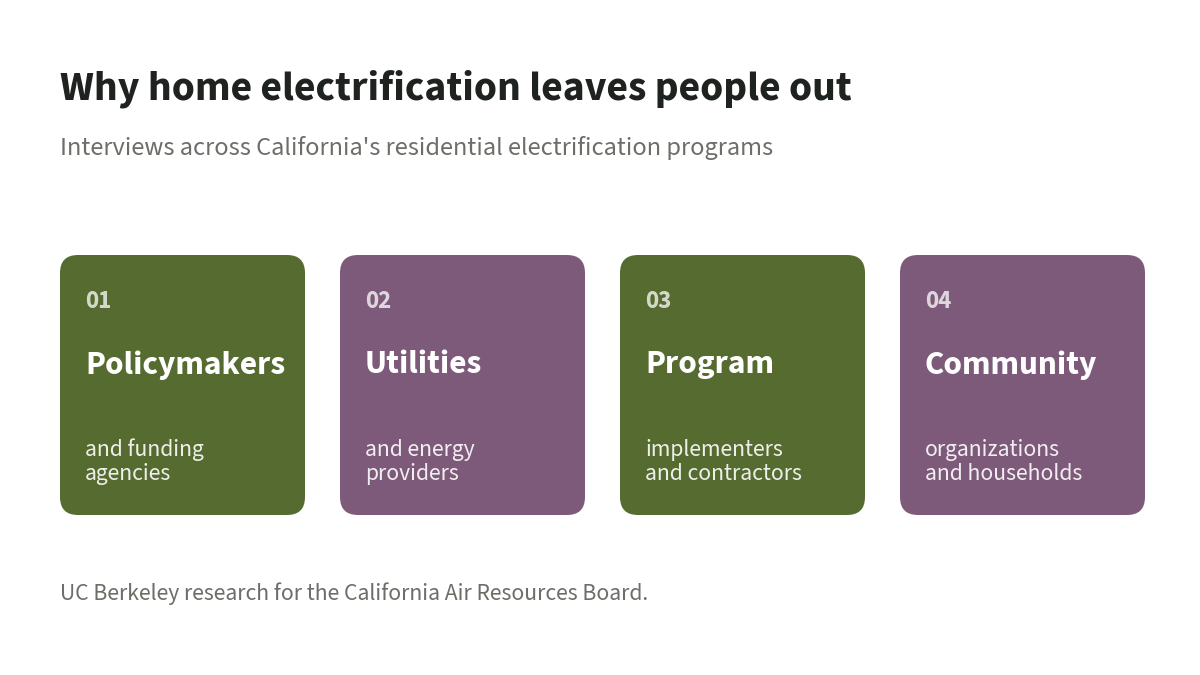
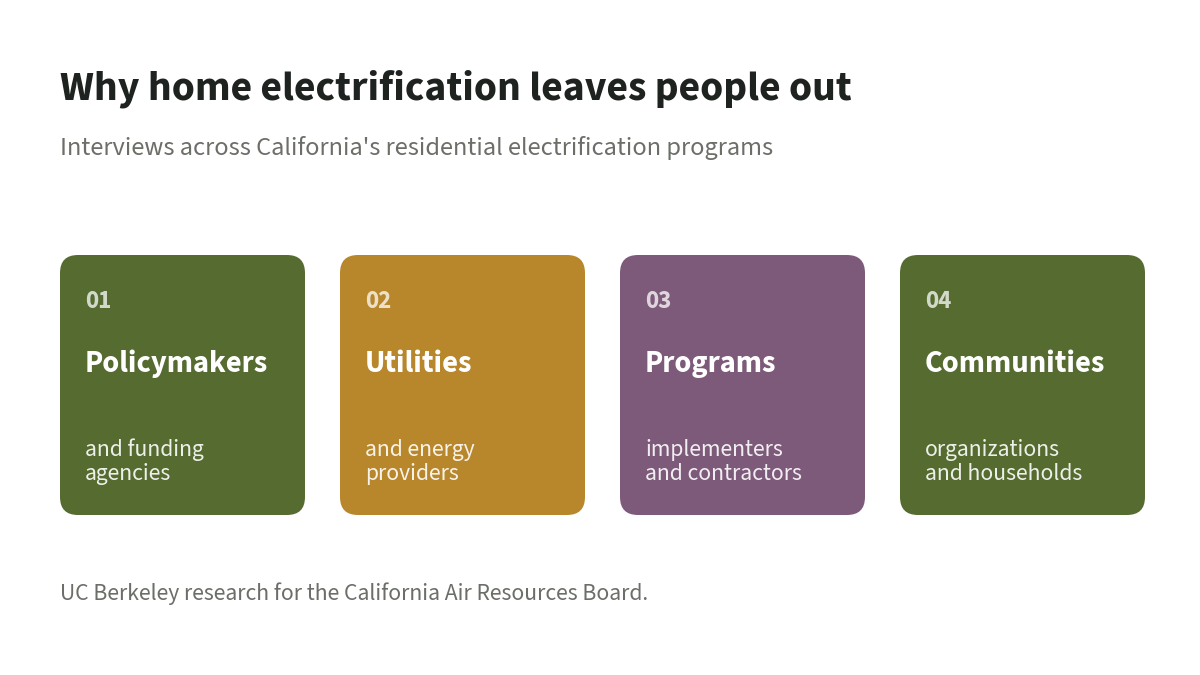
Add warm ochre accent and off-white background
Claude-Session: https://claude.ai/code/session_01WChvCnKWcNiMbhN5gWHHJU

Changed region(s): [[0.2775, 0.3733, 0.9558, 0.7778], [0.0617, 0.4978, 0.2467, 0.56]]

diff --git a/_sass/_themes.scss b/_sass/_themes.scss
@@ -1,6 +1,7 @@
 /*******************************************************************************
  * Local override of al_folio_core 1.0.15 _sass/_themes.scss
- * Changes: site palette "Olive & Mauve"
+ * Changes: site palette "Olive & Mauve" with a warm ochre accent (#b8862b)
+ *   and a warm off-white page background (#fbfaf6) in light mode
  *   olive #556b2f / light olive #a3b18a, mauve #7d5a7a / light mauve #d8bfd8
  * Everything else is unchanged from the gem. When al_folio_core is updated,
  * compare this file with the new upstream version.
@@ -10,8 +11,9 @@
 
 :root {
   color-scheme: light;
-  --global-bg-color: #{v.$white-color};
+  --global-bg-color: #fbfaf6;
   --global-code-bg-color: rgba(85, 107, 47, 0.06);
+  --site-accent-color: #b8862b;
   --global-text-color: #{v.$black-color};
   --global-text-color-light: #{v.$grey-color};
   --global-theme-color: #556b2f;
@@ -85,6 +87,7 @@ html[data-theme="dark"] {
   --global-text-color: #{v.$grey-color-light};
   --global-text-color-light: #{v.$grey-color};
   --global-theme-color: #a3b18a;
+  --site-accent-color: #d9ab52;
   --global-hover-color: #d8bfd8;
   --global-hover-text-color: #{v.$white-color};
   --global-footer-bg-color: #{v.$grey-color-light};
@@ -209,4 +212,24 @@ html[data-theme-setting="light"] {
 
 #light-toggle:hover .fa-half-sun-moon::after {
   color: var(--global-theme-color);
+}
+
+/* Site accent: warm ochre rule under section headings and category headings */
+article h2:not(.category)::after {
+  content: "";
+  display: block;
+  width: 2.5rem;
+  height: 3px;
+  margin-top: 0.35rem;
+  border-radius: 2px;
+  background-color: var(--site-accent-color);
+}
+
+.projects h2.category {
+  color: var(--site-accent-color);
+  border-bottom: 2px solid var(--site-accent-color);
+}
+
+blockquote {
+  border-left-color: var(--site-accent-color);
 }

diff --git a/_pages/projects.md b/_pages/projects.md
@@ -11,9 +11,9 @@ horizontal: false
 
 Projects are grouped by the kind of work they show:
 
-- **[Utility & market operations](#utility-market-operations)**: carbon compliance and allowance markets. Most relevant for utilities, ISOs/RTOs, and trading teams.
-- **[Grid & financial modeling](#grid-financial-modeling)**: VPP valuation, project finance, and resource siting optimization. Most relevant for energy consulting, resource planning, and regulatory staff roles.
-- **[Policy & regulatory analysis](#policy-regulatory-analysis)**: client reports for state agencies. Most relevant for regulators, legislative offices, and advocacy organizations.
+- **[Utility & market operations](#utility-market-operations)**: virtual power plant valuation, carbon compliance, and allowance markets. Most relevant for utilities, ISOs/RTOs, and trading teams.
+- **[Grid & financial modeling](#grid-financial-modeling)**: project finance, resource siting optimization, and interconnection queue modeling. Most relevant for energy consulting, resource planning, and regulatory staff roles.
+- **[Policy & regulatory analysis](#policy-regulatory-analysis)**: client reports and research for state agencies. Most relevant for regulators, legislative offices, and advocacy organizations.
 
 <!-- pages/projects.md -->
 <div class="projects">
